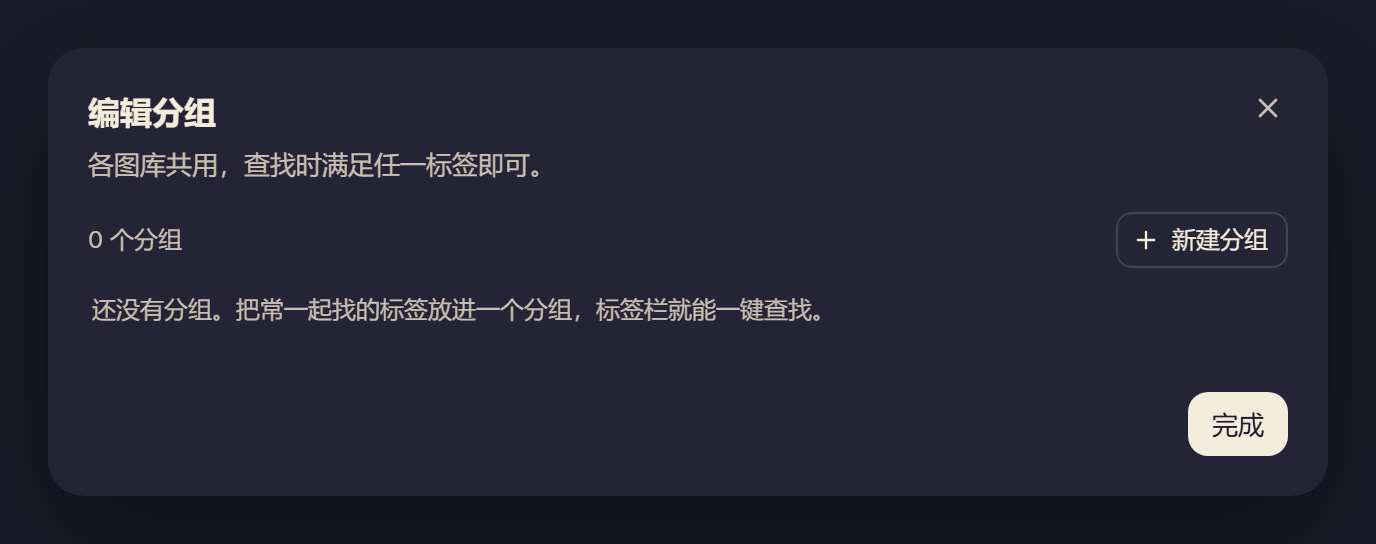
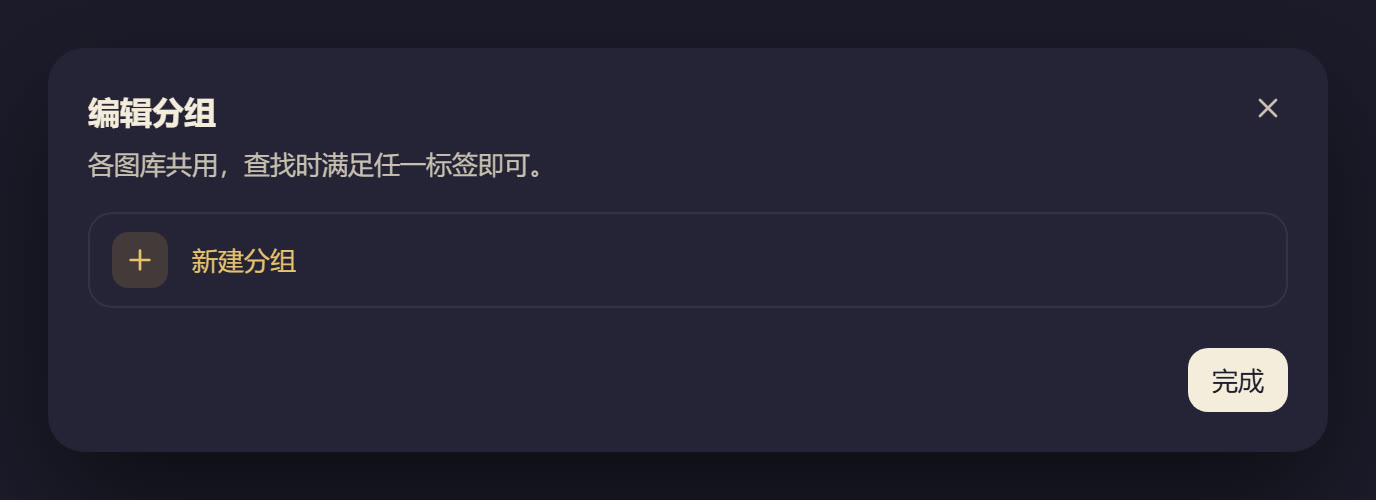
feat(ui): tag groups dialog follows the SettingsList pattern
- Groups sit in one SettingsList frame (r-m, 1 px line, rows 8 x 12):
  a 28 px icon square, the name, and the member count on the right; a
  namespace group shows a k-pill instead of the count.
- Provenance moves into a Link2 icon's tooltip (no middle dot, no extra
  line); rename/reorder/delete show on hover or keyboard focus.
- Members are TagChips (surface, 1 px line) with 16 px chip-x controls;
  "加标签" is a ghost button (accent-strong).
- "新建分组" is the list's last row and opens the inline form in place;
  the "N 个分组" bar and the empty-state paragraph are gone.
- Drop FluidList here: its hover pill only covered the head line.

diff --git a/src/ui/dialogs.css b/src/ui/dialogs.css
@@ -59,7 +59,6 @@
   background: transparent; color: var(--ink-2); font: inherit; font-size: 12px; }
 .groupbar-edit:hover { background: var(--hover); color: var(--ink); }
 .k-dialog.k-groups-dialog { width: min(640px, calc(100vw - 48px)); }
-.k-groups-dialog .sidebar-tag-groups { max-height: calc(100vh - 260px); overflow: auto; }
 
 /* ---- Save destination: 图库 + 文件夹 side by side ---- */
 .k-destination { margin: 0; padding: 0; border: 0; min-width: 0; display: grid; gap: 6px; }
@@ -117,63 +116,74 @@
   .k-task-progress::-webkit-progress-value { transition-duration: 0ms; }
 }
 
-/* 编辑分组（#98）：每组一行（图标、名称、成员数与来源，悬停或聚焦时露出操作），下面是成员标签块（设计系统 TagChip），
-   与分组名左对齐（8 内边距 + 16 图标 + 8 间距），行末是“加标签”。 */
+/* 编辑分组（#98）：设计系统 SettingsList 的外框（圆角 r-m、1 px line、行间 1 px line、行内边距 8 × 12），
+   每个分组一行：28 px 图标方块、名称、靠右的成员数或命名空间胶囊；下面是与名称左对齐的 TagChip（28 + 12 = 40）。
+   末行是“新建分组”，点开就地变成新建表单。 */
 .k-groups { display: flex; flex-direction: column; gap: 8px; min-width: 0; }
-.k-groups-head { display: flex; align-items: center; gap: 8px; }
-.k-groups-count { flex: 1; color: var(--ink-2); font-size: 12px; }
-.k-groups-empty { margin: 4px 2px; color: var(--ink-2); font-size: 12px; line-height: 18px; }
-/* 新建分组：一行，图标与下面的分组图标对齐，名称占满剩余宽度。 */
-.k-group-new { display: flex; align-items: center; gap: 8px; padding: 8px 8px 8px 8px; border-radius: var(--r-m); background: var(--sunken); }
-.k-group-new > .k-input { flex: 1 1 140px; }
-.k-group-new > .k-group-kind { flex: none; width: 128px; }
-.k-group-list { display: flex; flex-direction: column; }
-.k-group { padding: 6px 0 12px; border-bottom: 1px solid var(--line); }
-.k-group:last-child { border-bottom: 0; padding-bottom: 4px; }
-.k-group-row { display: flex; align-items: center; gap: 4px; min-height: 34px; padding-right: 5px; border-radius: var(--r-s); transition: background var(--t-fast); }
-.k-group-row:hover, .k-group-row:has(:focus-visible) { background: var(--hover); }
-.k-group-row.is-renaming { gap: 8px; padding: 0 8px; background: none; }
-.k-group-name { flex: 1 1 auto; min-width: 0; display: flex; align-items: center; gap: 8px; height: 34px; padding: 0 8px; border: 0; border-radius: var(--r-s); background: transparent; color: var(--ink); font: inherit; text-align: left; cursor: pointer; }
-/* 空分组不能按它查找，但名称照常显示，不随全局 button:disabled 变淡。 */
-.k-group-name:disabled { opacity: 1; cursor: default; }
-.k-group-name:focus-visible { outline: 2px solid var(--accent); outline-offset: -2px; }
-.k-group-icon { flex: none; color: var(--ink-3); }
-.k-group-label { flex: 0 1 auto; min-width: 0; font-weight: 600; overflow: hidden; text-overflow: ellipsis; white-space: nowrap; }
-.k-group-meta { flex: none; color: var(--ink-2); font-size: 12px; white-space: nowrap; font-variant-numeric: tabular-nums; }
-.k-group-origin { flex: 0 1 auto; min-width: 0; color: var(--ink-2); font-size: 12px; overflow: hidden; text-overflow: ellipsis; white-space: nowrap; }
-.k-group-origin::before { content: "·"; margin-right: 8px; }
+.k-group-list { border-radius: var(--r-m); background: var(--surface); box-shadow: inset 0 0 0 1px var(--line); }
+.k-group { padding: 8px 12px 12px; border-top: 1px solid var(--line); }
+.k-group-rows > .k-group:first-child { border-top: 0; }
+.k-group-icon { width: 28px; height: 28px; flex: none; display: grid; place-items: center; border-radius: var(--r-s); background: var(--surface-2); color: var(--ink-2); }
+.k-group-head { display: flex; align-items: center; gap: 12px; min-height: 32px; }
+.k-group-head.is-renaming > .k-input { flex: 1; }
+.k-group-name { flex: 1 1 auto; min-width: 0; display: flex; align-items: center; gap: 6px; height: 32px; padding: 0; border: 0; background: none; color: var(--ink); font: inherit; text-align: left; cursor: pointer; }
+.k-group-name:disabled { opacity: 1; cursor: default; } /* 空分组不能按它查找，但名称照常显示，不随全局 button:disabled 变淡。 */
+.k-group-name:hover:not(:disabled) .k-group-label { text-decoration: underline; text-decoration-color: var(--line-2); text-underline-offset: 3px; }
+.k-group-name:focus-visible { outline: 2px solid var(--accent); outline-offset: 2px; border-radius: var(--r-xs); }
+.k-group-label { min-width: 0; font-weight: 500; overflow: hidden; text-overflow: ellipsis; white-space: nowrap; }
+.k-group-origin { flex: none; display: inline-flex; color: var(--ink-3); }
+.k-group-count { flex: none; color: var(--ink-2); font-size: 12px; font-variant-numeric: tabular-nums; white-space: nowrap; }
+.k-group-head > .k-pill { flex: none; }
+/* 改名、上移、下移、删除：悬停或键盘聚焦时出现（:focus-visible，对话框打开时的初始焦点不算）。 */
 .k-group-acts { display: flex; gap: 2px; flex: none; opacity: 0; transition: opacity var(--t-fast); }
-/* 键盘聚焦才算（:focus-visible）：对话框打开时的初始焦点不点亮第一行。 */
-.k-group-row:hover .k-group-acts, .k-group-row:has(:focus-visible) .k-group-acts { opacity: 1; }
+.k-group:hover .k-group-acts, .k-group-head:has(:focus-visible) .k-group-acts { opacity: 1; }
 @media (hover: none) { .k-group-acts { opacity: 1; } }
 .k-icon-btn.is-danger:hover:not(:disabled) { color: var(--danger); background: var(--hover); }
 .k-icon-btn.is-xs { width: 20px; height: 20px; border-radius: var(--r-xs); }
 .k-icon-btn:disabled { opacity: 0.5; cursor: default; }
-.k-group-members { display: flex; flex-wrap: wrap; align-items: center; gap: 6px; margin: 4px 0 0; padding: 0 8px 0 32px; list-style: none; }
+/* 成员：TagChip（26 高、r-item、surface 底、1 px line 内描边，计数 12 px ink-2）。 */
+.k-group-members { display: flex; flex-wrap: wrap; align-items: center; gap: 6px; margin: 6px 0 0; padding: 0 0 0 40px; list-style: none; }
 .k-group-members > li { display: inline-flex; min-width: 0; }
-.k-group-member { align-items: center; height: 26px; border-radius: var(--r-item); background: var(--surface-2); transition: background var(--t-fast); }
-.k-group-member:hover, .k-group-member:has(:focus-visible) { background: color-mix(in srgb, var(--surface-2), var(--ink) 6%); }
-.k-group-chip { display: inline-flex; align-items: center; gap: 6px; height: 26px; padding: 0 8px; border: 0; border-radius: var(--r-item); background: transparent; color: var(--ink); font: inherit; font-size: 12px; cursor: pointer; }
-.k-group-chip:disabled { cursor: default; }
-.k-group-chip:focus-visible { outline: 2px solid var(--accent); outline-offset: 1px; }
-.k-group-chip-name { display: inline-flex; align-items: center; gap: 3px; font-weight: 500; white-space: nowrap; }
+.k-group-member { align-items: center; height: 26px; border-radius: var(--r-item); background: var(--surface); box-shadow: inset 0 0 0 1px var(--line); transition: background var(--t-fast), box-shadow var(--t-fast); }
+.k-group-member:hover, .k-group-member:has(:focus-visible) { background: var(--surface-2); box-shadow: inset 0 0 0 1px var(--line-2); }
+.k-group-chip { display: inline-flex; align-items: center; gap: 6px; height: 26px; padding: 0 8px; border: 0; border-radius: var(--r-item); background: none; color: var(--ink); font: inherit; cursor: pointer; }
+.k-group-chip:disabled { opacity: 1; cursor: default; }
+.k-group-chip:focus-visible { outline: 2px solid var(--accent); outline-offset: 2px; }
+.k-group-chip-name { display: inline-flex; align-items: center; gap: 4px; white-space: nowrap; }
 .k-group-chip-name .untranslated, .k-group-chip-name .no-external { display: inline-flex; color: var(--ink-3); }
-.k-group-chip-count { color: var(--ink-2); font-variant-numeric: tabular-nums; }
-/* 前移、后移、移出：收起时宽度为 0 但仍可用 Tab 聚焦；悬停或聚焦时展开。 */
-.k-group-member-acts { display: inline-flex; max-width: 0; overflow: hidden; opacity: 0; margin-left: -4px; transition: max-width 140ms, opacity 140ms; }
-.k-group-member:hover .k-group-member-acts, .k-group-member:has(:focus-visible) .k-group-member-acts { max-width: 64px; opacity: 1; padding-right: 3px; }
-@media (hover: none) { .k-group-member-acts { max-width: 64px; opacity: 1; padding-right: 3px; } }
-/* 加标签：虚线框的空位，点开换成同高的候选输入框。 */
-.k-group-add { display: inline-flex; align-items: center; gap: 4px; box-sizing: border-box; height: 26px; padding: 0 9px 0 7px; border: 1px dashed var(--line-2); border-radius: var(--r-item);
-  background: transparent; color: var(--ink-2); font: inherit; font-size: 12px; cursor: pointer; transition: color var(--t-fast), border-color var(--t-fast), background var(--t-fast); }
-.k-group-add:hover:not(:disabled) { border-color: var(--ink-3); background: var(--hover); color: var(--ink); }
-.k-group-add:focus-visible { outline: 2px solid var(--accent); outline-offset: 1px; }
+.k-group-chip-count { color: var(--ink-2); font-size: 12px; font-variant-numeric: tabular-nums; }
+/* 前移、后移、移出：TagChip 的 chip-x（16 px、ink-3）。收起时宽度为 0 但仍可用 Tab 聚焦；悬停或聚焦时展开。 */
+.k-group-member-acts { display: inline-flex; gap: 1px; max-width: 0; overflow: hidden; opacity: 0; margin-left: -4px; transition: max-width 140ms, opacity 140ms; }
+.k-group-member:hover .k-group-member-acts, .k-group-member:has(:focus-visible) .k-group-member-acts { max-width: 64px; opacity: 1; padding-right: 5px; }
+@media (hover: none) { .k-group-member-acts { max-width: 64px; opacity: 1; padding-right: 5px; } }
+.k-group-chip-x { width: 16px; height: 16px; flex: none; display: grid; place-items: center; padding: 0; border: 0; border-radius: 4px; background: none; color: var(--ink-3); cursor: pointer; }
+.k-group-chip-x:hover:not(:disabled) { background: var(--hover); color: var(--ink); }
+.k-group-chip-x:focus-visible { outline: 2px solid var(--accent); outline-offset: 0; }
+.k-group-chip-x:disabled { opacity: 0.4; cursor: default; }
+/* 加标签：行内的轻操作，设计系统 Button is-ghost（accent-strong 字，悬停 accent-soft）。 */
+.k-group-add { display: inline-flex; align-items: center; gap: 4px; height: 26px; padding: 0 8px 0 6px; border: 0; border-radius: var(--r-item);
+  background: transparent; color: var(--accent-strong); font: inherit; font-weight: 500; cursor: pointer; transition: background var(--t-fast); }
+.k-group-add:hover:not(:disabled) { background: var(--accent-soft); }
+.k-group-add:focus-visible { outline: 2px solid var(--accent); outline-offset: 2px; }
 .k-group-add:disabled { opacity: 0.5; cursor: default; }
 .k-group-pick { align-items: center; gap: 4px; }
 .k-group-pick > .k-combo { flex: none; width: 200px; }
-.k-group-pick .k-input.is-inline { height: 26px; padding: 0 8px; border-radius: var(--r-item); font-size: 12px; }
-@media (prefers-reduced-motion: reduce) { .k-group-member-acts, .k-group-row, .k-group-member, .k-group-acts, .k-group-add { transition: none; } }
-.k-groups-dialog .k-groups { max-height: calc(100vh - 260px); overflow: auto; }
+.k-group-pick .k-input.is-inline { height: 26px; padding: 0 8px; border-radius: var(--r-item); }
+/* 末行：新建分组（与分组行同样的图标方块与对齐），点开换成新建表单。 */
+.k-group-create { display: flex; align-items: center; gap: 12px; width: 100%; min-height: 48px; padding: 8px 12px; border: 0; border-top: 1px solid var(--line); border-radius: 0 0 var(--r-m) var(--r-m);
+  background: none; color: var(--accent-strong); font: inherit; font-weight: 500; text-align: left; cursor: pointer; transition: background var(--t-fast); }
+.k-group-rows:empty + .k-group-create { border-top: 0; border-radius: var(--r-m); }
+.k-group-create > .k-group-icon { background: var(--accent-soft); color: var(--accent-strong); }
+.k-group-create:hover:not(:disabled) { background: var(--hover); }
+.k-group-create:focus-visible { outline: 2px solid var(--accent); outline-offset: -2px; }
+.k-group-create:disabled { opacity: 0.5; cursor: default; }
+.k-group-new { display: flex; align-items: center; gap: 8px; padding: 8px 12px; border-top: 1px solid var(--line); }
+.k-group-rows:empty + .k-group-new { border-top: 0; }
+.k-group-new > .k-group-icon { margin-right: 4px; }
+.k-group-new > .k-input { flex: 1 1 140px; }
+.k-group-new > .k-group-kind { flex: none; width: 120px; }
+@media (prefers-reduced-motion: reduce) { .k-group-member-acts, .k-group-member, .k-group-acts, .k-group-add, .k-group-create { transition: none; } }
+.k-groups-dialog .k-groups { max-height: calc(100vh - 220px); overflow: auto; }
 /* 详情面板打开时，右下角卡片停在面板左侧，不盖住面板底部的按钮（#98）。 */
 .k-task-cards { transition: right 200ms var(--spring); }
 body:has(.inspector[data-collapsed="false"]) .k-task-cards { right: calc(var(--inspector-width, 320px) + 1px + 18px); max-width: calc(100vw - var(--inspector-width, 320px) - 1px - 36px); }

diff --git a/src/library/SharedTagGroups.test.tsx b/src/library/SharedTagGroups.test.tsx
@@ -31,7 +31,8 @@ describe("T05 shared groups", () => {
     const calls = backend(); const browse = vi.fn();
     render(<TagGroupsPane libraryId="" safe generation={0} onBrowse={browse} onError={vi.fn()} />);
     const group = await screen.findByRole("group", { name: "发色" });
-    expect(within(group).getByText(/角色参考/)).toBeTruthy();
+    // 来源是次要信息：放在名称旁图标的悬停提示里（设计系统：次要信息收进悬停提示）。
+    expect(within(group).getByRole("img", { name: "来自：角色参考 / 发色" }).getAttribute("title")).toBe("来自：角色参考 / 发色");
     fireEvent.click(within(group).getByRole("button", { name: "发色（2 个标签）" }));
     expect(browse).toHaveBeenCalledWith(["shared-blue", "shared-purple"]);
     fireEvent.click(within(group).getByRole("button", { name: "下移标签分组“发色”" }));
